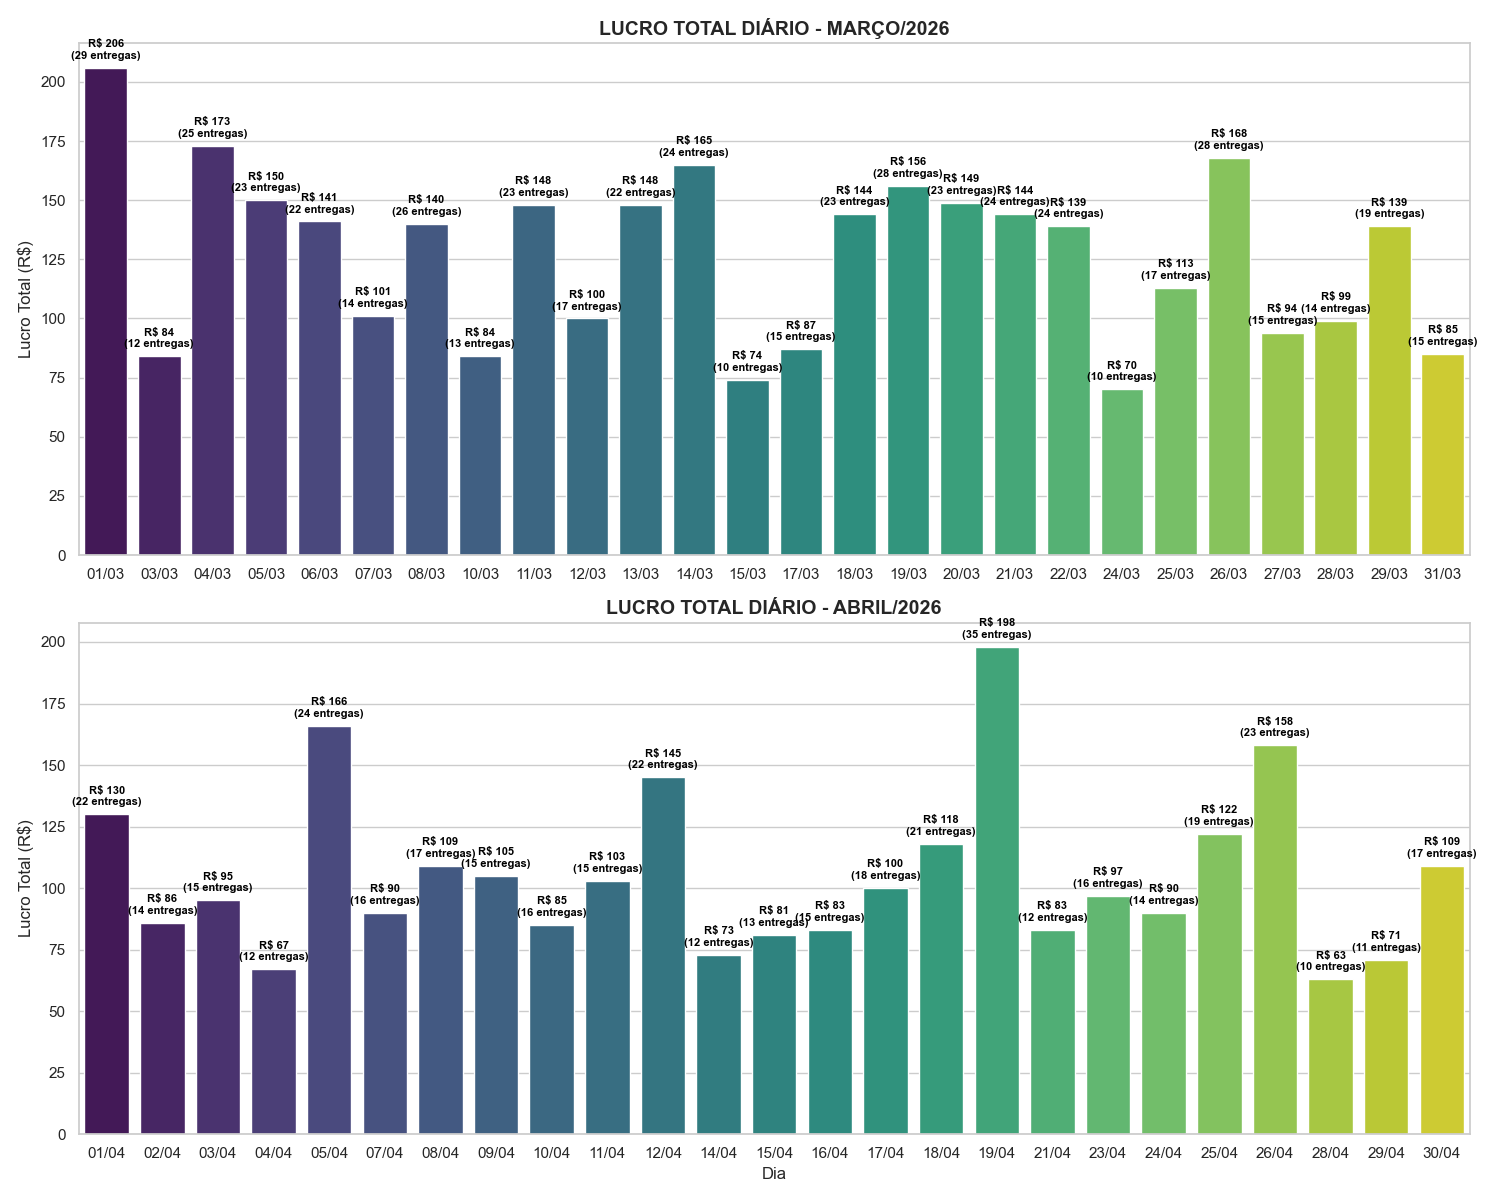
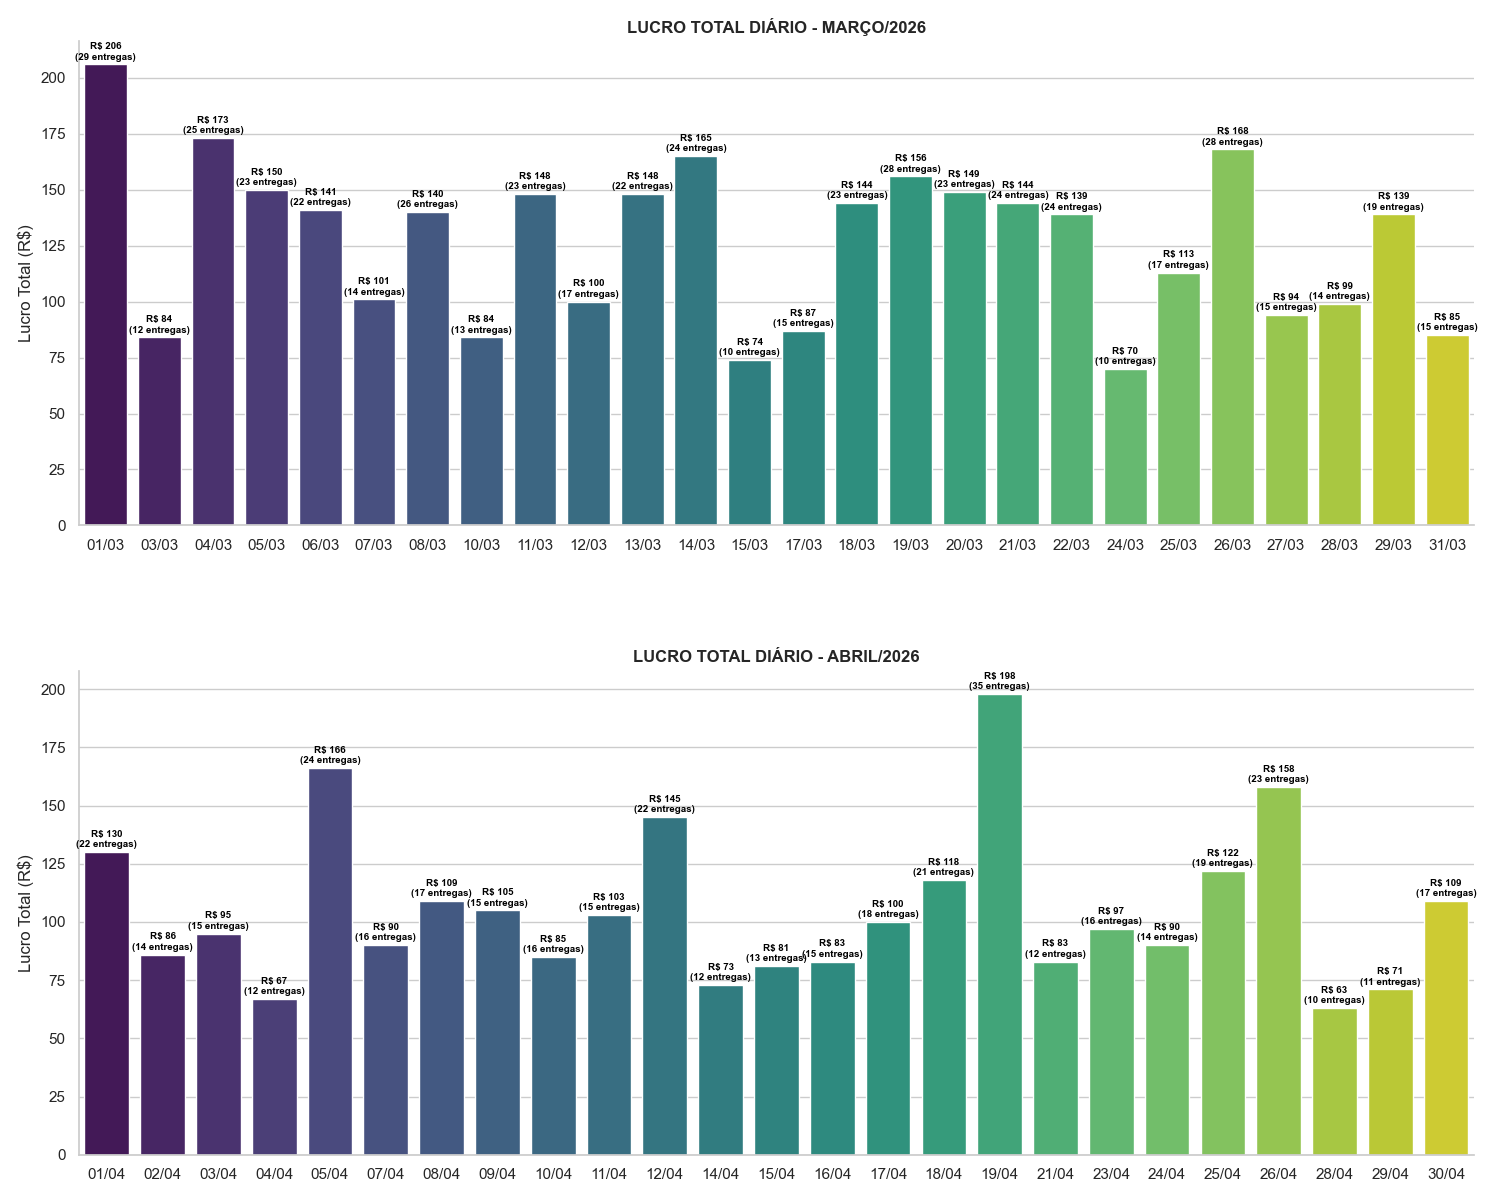
adicionando grafico de eficiencia media de acordo com o dia da semana

diff --git a/filtragem de relatorio de entregas.py b/filtragem de relatorio de entregas.py
@@ -57,6 +57,27 @@ except KeyError as erro: #mensagem de erro caso nao encontre uma coluna no arqui
 except Exception as excecao: #mensagem de erro caso de erro no processo de limpeza de dados
     print(f"Erro na limpeza dos dados: {excecao}")
 
+
+query_top_dia = """
+    SELECT 
+        data_entregas, 
+        SUM(taxa) AS lucro_total, 
+        COUNT(*) AS quantidade_total
+    FROM entregas
+    GROUP BY data_entregas;
+    """
+
+query_volume_bairro = """
+SELECT 
+    bairro, 
+    COUNT(*) AS quantidade_entregas
+FROM entregas
+GROUP BY bairro
+ORDER BY quantidade_entregas DESC;
+"""#filtrando a contagem de entregas em cada respectivo bairro no mes
+
+
+
 try:
         
     df_consolidado = pd.concat([df_m, df_a], ignore_index=True)
@@ -96,45 +117,16 @@ try:
     plt.show()
 
 except Exception as e:
-    print(f"Erro no gráfico de lucro por hora: {e}")
-
-
-
-
-
-
-
-
-
-query_volume_bairro = """
-SELECT 
-    bairro, 
-    COUNT(*) AS quantidade_entregas
-FROM entregas
-GROUP BY bairro
-ORDER BY quantidade_entregas DESC;
-"""#filtrando a contagem de entregas em cada respectivo bairro no mes
-
-with sqlite3.connect('logistica_pessoal.db') as conn:
-    # Salva o consolidado limpo
     
-    # Busca os dados (o SQLite vai tratar a data como string ISO: yyyy-mm-dd)
-    df_volume = pd.read_sql(query_volume_bairro, conn)
-
+    print(f"Erro no gráfico de lucro por hora: {e}")
 with sqlite3.connect('logistica_pessoal.db') as conn:
-    query_top_dia = """
-SELECT 
-    data_entregas, 
-    SUM(taxa) AS lucro_total, 
-    COUNT(*) AS quantidade_total
-FROM entregas
-GROUP BY data_entregas;
-"""
 
+    
     df_consolidado.to_sql('entregas', conn, if_exists='replace', index=False)
+    df_volume = pd.read_sql(query_volume_bairro, conn)
     df_top = pd.read_sql(query_top_dia, conn)#variavel que recebeu os dados da query do top do dia e a conexao com o banco de dados
-   #variavel que recebeu os dados da query do volume do bairro no mes e a conexao com o banco de dados
-     #o with fecha a conexao com o banco de dados automaticamente, pois as variaveis anteriores ja armazenaram os dados que preciso para exibir os graficos
+    #variavel que recebeu os dados da query do volume do bairro no mes e a conexao com o banco de dados
+        #o with fecha a conexao com o banco de dados automaticamente, pois as variaveis anteriores ja armazenaram os dados que preciso para exibir os graficos
 
    
 
@@ -149,7 +141,7 @@ else:
         df_marco = df_top[df_top['mes_aux'] == 3].copy().sort_values('data_entregas')
         df_abril = df_top[df_top['mes_aux'] == 4].copy().sort_values('data_entregas')
 
-        # 3. Criando a coluna formatada para o eixo X
+        
         df_marco['data_formatada'] = df_marco['data_entregas'].dt.strftime('%d/%m')
         df_abril['data_formatada'] = df_abril['data_entregas'].dt.strftime('%d/%m')
 
@@ -161,10 +153,10 @@ else:
         for barra, lucro, qtd in zip(barras_m.patches, df_marco['lucro_total'], df_marco['quantidade_total']):
             ax1.annotate(f'R$ {int(lucro)}\n({qtd} entregas)', 
                         xy=(barra.get_x() + barra.get_width()/2, barra.get_height()),
-                        xytext=(0, 5), textcoords="offset points",
-                        ha='center', va='bottom', fontsize=8, fontweight='bold', color='black')
+                        xytext=(0, 2), textcoords="offset points",
+                        ha='center', va='bottom', fontsize=7, fontweight='bold', color='black')
 
-        ax1.set_title('LUCRO TOTAL DIÁRIO - MARÇO/2026', fontsize=14, fontweight='bold')
+        ax1.set_title('LUCRO TOTAL DIÁRIO - MARÇO/2026', fontsize=12, fontweight='bold')
         ax1.set_ylabel('Lucro Total (R$)')
         ax1.set_xlabel('')
 
@@ -173,14 +165,15 @@ else:
         for barra, lucro, qtd in zip(barras_a.patches, df_abril['lucro_total'], df_abril['quantidade_total']):
             ax2.annotate(f'R$ {int(lucro)}\n({qtd} entregas)', 
                         xy=(barra.get_x() + barra.get_width()/2, barra.get_height()),
-                        xytext=(0, 5), textcoords="offset points",
-                        ha='center', va='bottom', fontsize=8, fontweight='bold', color='black')
+                        xytext=(0, 2), textcoords="offset points",
+                        ha='center', va='bottom', fontsize=7, fontweight='bold', color='black')
 
-        ax2.set_title('LUCRO TOTAL DIÁRIO - ABRIL/2026', fontsize=14, fontweight='bold')
+        ax2.set_title('LUCRO TOTAL DIÁRIO - ABRIL/2026', fontsize=12, fontweight='bold')
         ax2.set_ylabel('Lucro Total (R$)')
-        ax2.set_xlabel('Dia')
-
+        ax2.set_xlabel('')
+        sns.despine()# Remove as bordas desnecessárias
         plt.tight_layout()
+        plt.subplots_adjust(hspace=0.3)
         plt.savefig('lucro_total_diario_comparativo.png')
         plt.show()
 
@@ -207,3 +200,50 @@ else:
         plt.tight_layout() #garantindo que todos as informaçoes apareçam no grafico sem areas cortadas ou incompletas
         plt.savefig('quantidade_entregas_bairro.png')#criando uma figura a partir do texto  
         plt.show()#exibindo a figura formada
+
+try:
+    
+    mapa_dias = {
+        'Monday': 'Segunda', 'Tuesday': 'Terça', 'Wednesday': 'Quarta',
+        'Thursday': 'Quinta', 'Friday': 'Sexta', 'Saturday': 'Sábado', 'Sunday': 'Domingo'
+    }
+
+   
+    df_consolidado['dia_semana'] = df_consolidado['data_entregas'].dt.day_name().map(mapa_dias)
+
+    df_eficiencia = df_consolidado.groupby(['data_entregas', 'dia_semana']).agg({
+        'taxa': 'sum',
+        'tempo_entrega(min)': 'sum'
+    }).reset_index()
+
+    df_eficiencia['lucro_por_hora'] = df_eficiencia['taxa'] / (df_eficiencia['tempo_entrega(min)'] / 60)
+
+
+    ordem_dias = ['Segunda', 'Terça', 'Quarta', 'Quinta', 'Sexta', 'Sábado', 'Domingo']
+    df_resumo_semana = df_eficiencia.groupby('dia_semana')['lucro_por_hora'].mean().reindex(ordem_dias).reset_index()
+
+    plt.figure(figsize=(12, 6))
+    sns.set_theme(style="whitegrid")
+    
+    grafico = sns.barplot(data=df_resumo_semana, x='dia_semana', y='lucro_por_hora',hue='dia_semana', palette="dark")
+
+    # Adicionando os valores em cima das barras
+    for p in grafico.patches:
+        grafico.annotate(f'R$ {p.get_height():.2f}/h', 
+                         (p.get_x() + p.get_width() / 2., p.get_height()), 
+                         ha = 'center', va = 'center', 
+                         xytext = (0, 9), 
+                         textcoords = 'offset points',
+                         fontweight='bold')
+
+    plt.title('Eficiência Média: Lucro por Hora por Dia da Semana', fontsize=14, fontweight='bold')
+    plt.ylabel('R$ Médio por Hora')
+    plt.xlabel('Dia da Semana')
+    plt.ylim(0, df_resumo_semana['lucro_por_hora'].max() + 10)
+    
+    plt.tight_layout()
+    plt.savefig('eficiencia_dia_semana.png')
+    plt.show()
+
+except Exception as e:
+    print(f"Erro na análise de eficiência semanal: {e}")
